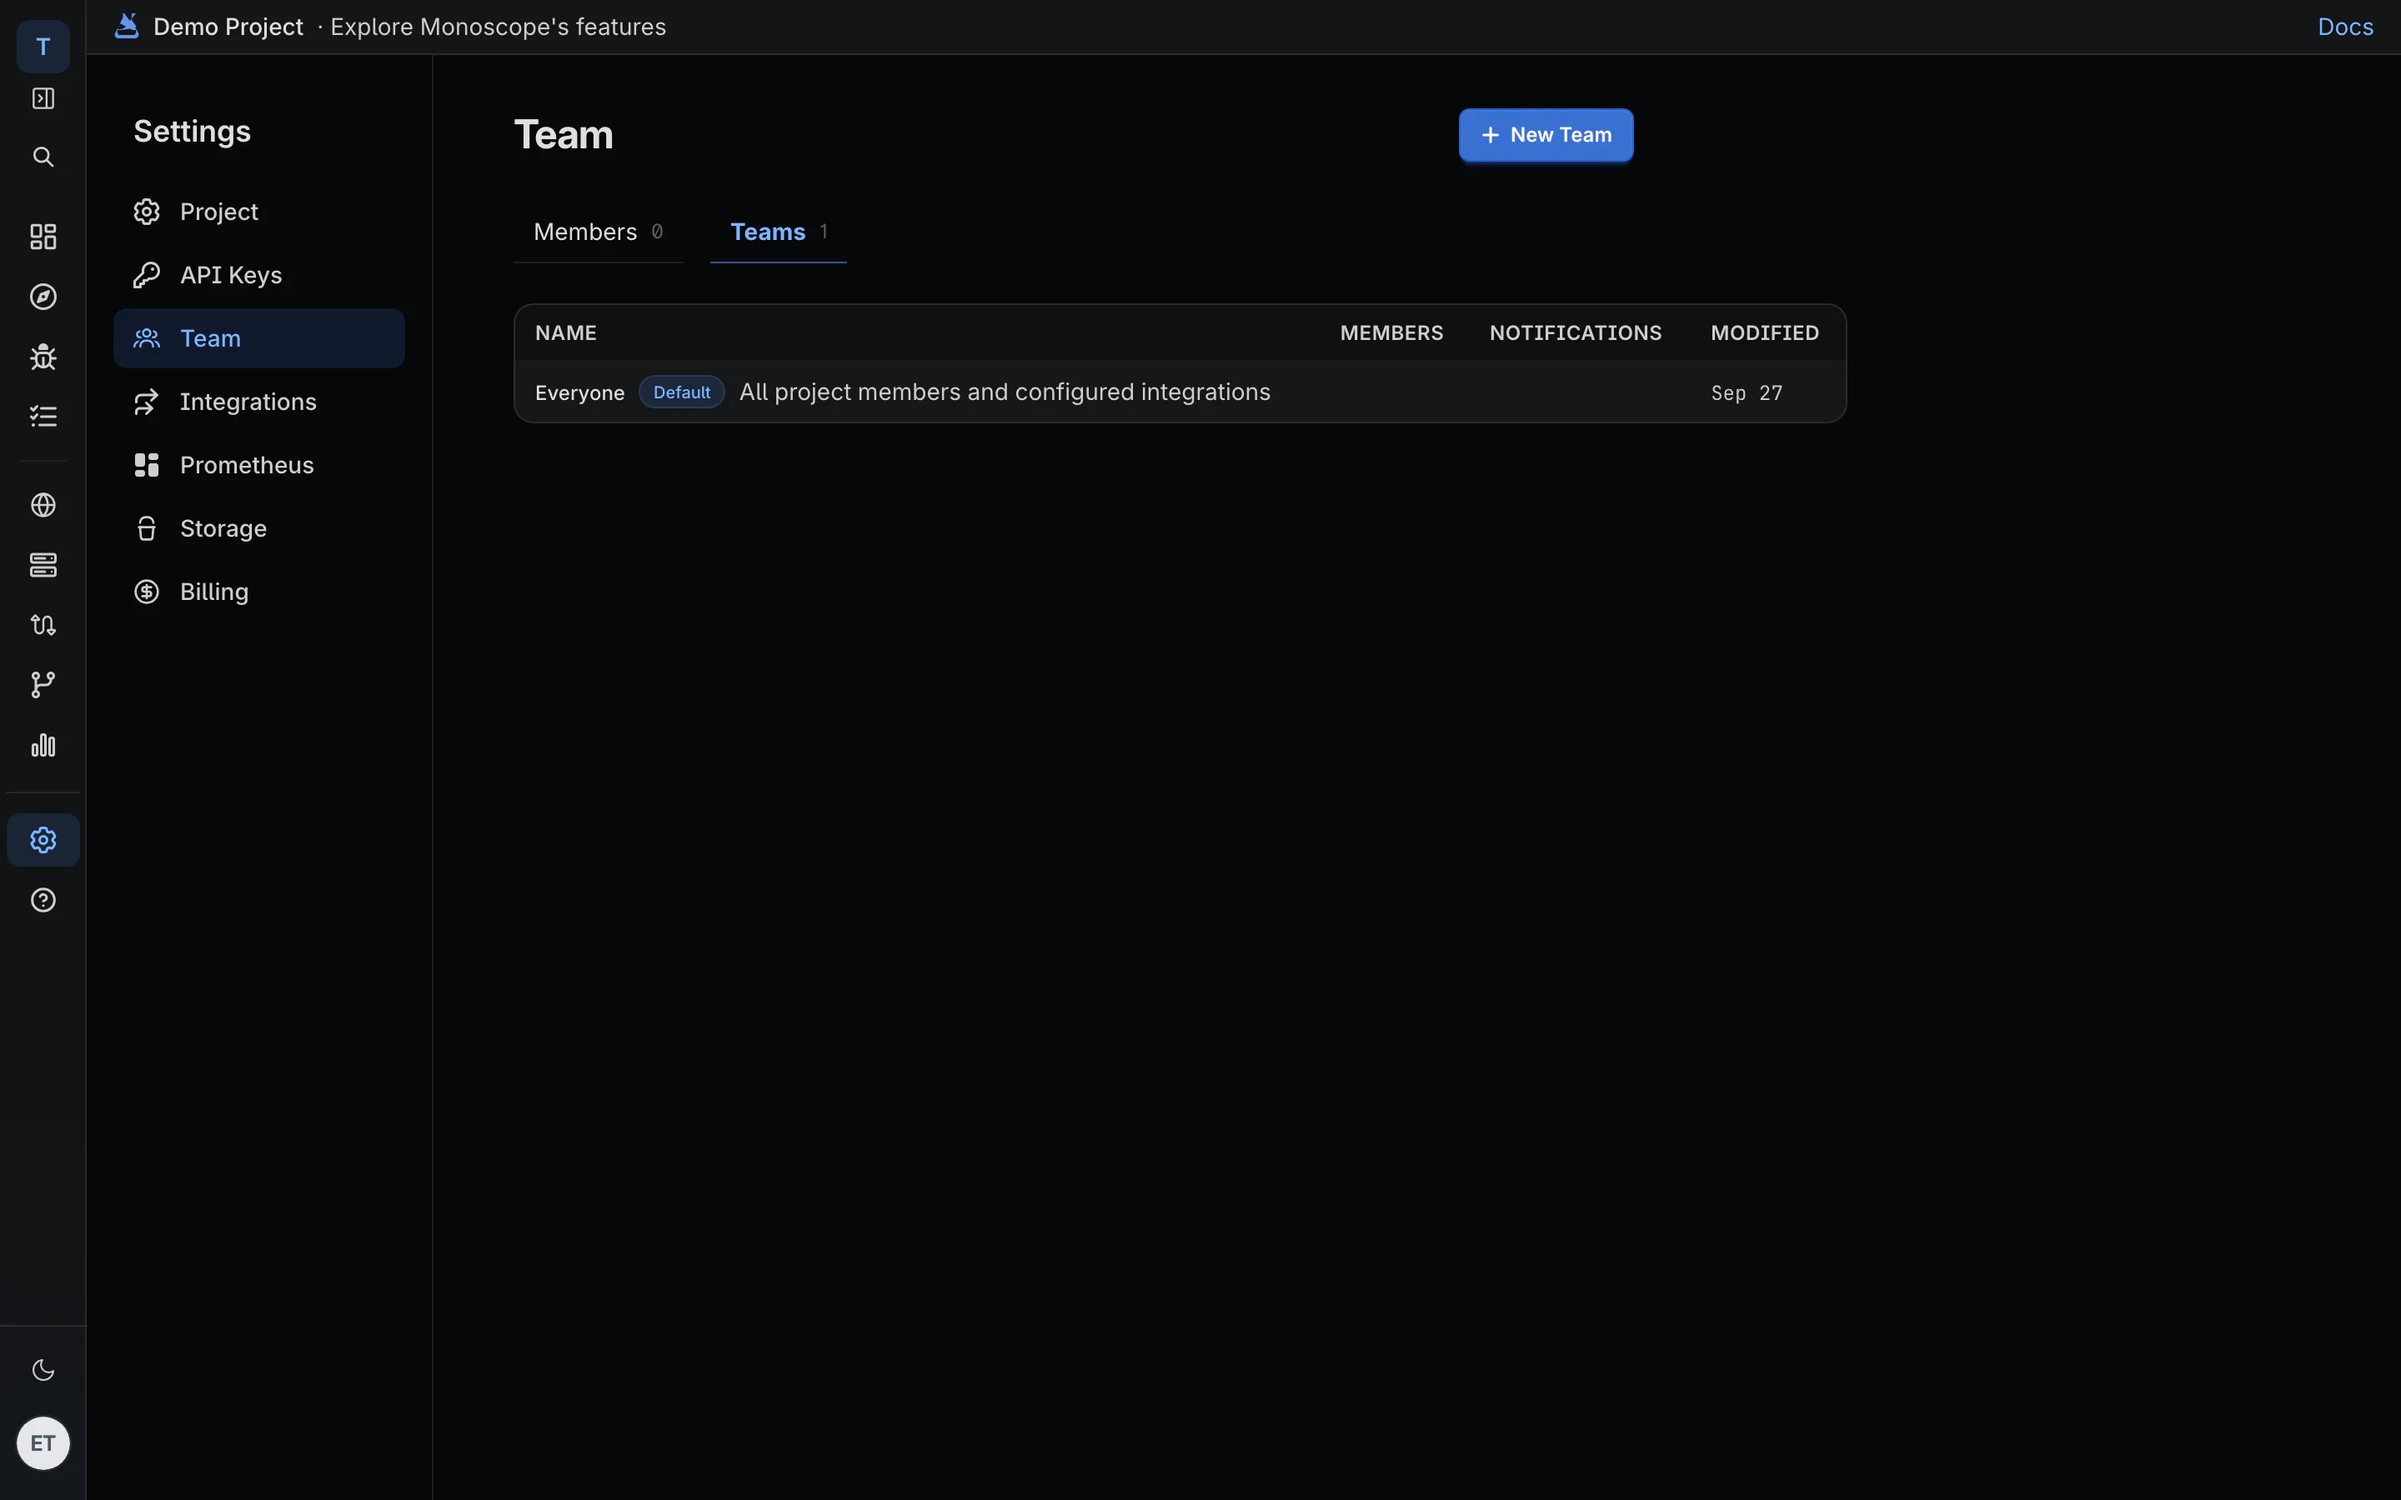
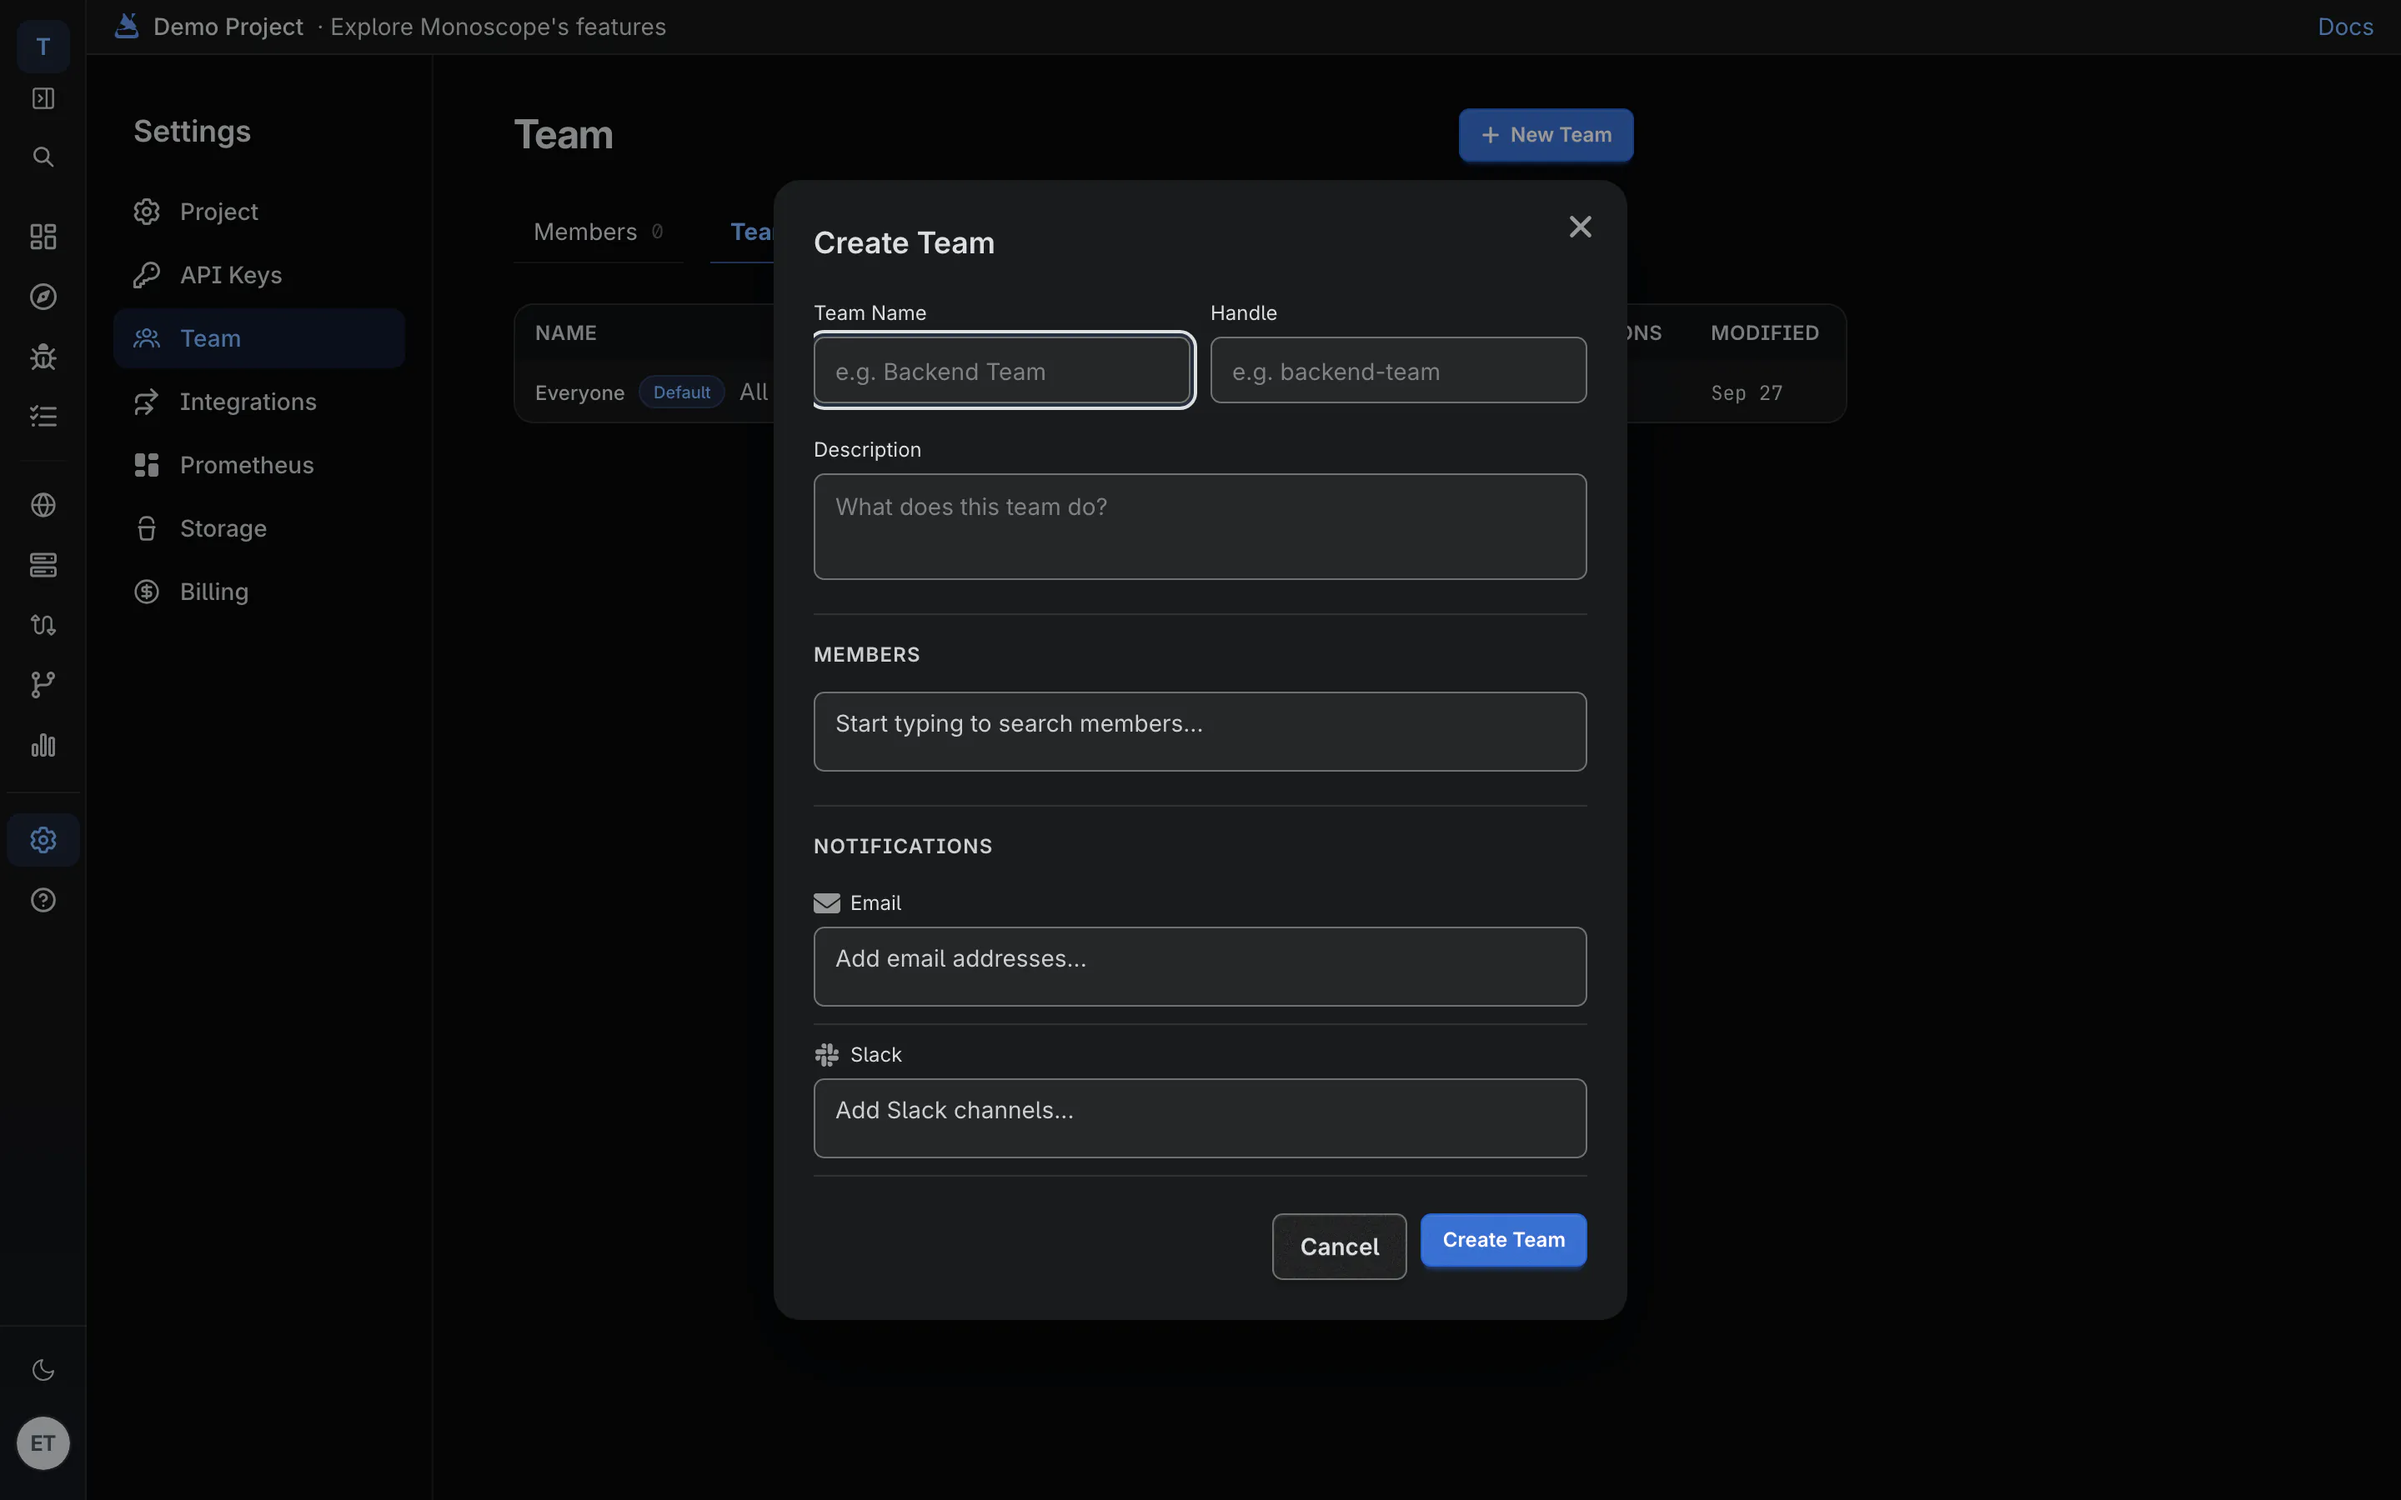
Product shots: session replay on a pinned session's landing hero; team settings with the Create Team dialog

diff --git a/assets/img/product/manifest.md b/assets/img/product/manifest.md
@@ -15,7 +15,7 @@ The script hides the demo-only "Book Demo" / "Start Free Trial" header buttons, 
 | issue-detail | `/issues/e76bd12d-0c56-4779-a348-79e758105791` | Issue #113557 "Shipping Quote Failure in Checkout Service": error frequency chart, AI analysis ("Likely cause: Network"), event highlights, contexts and trace ids | none | 2026-10-29 |
 | dashboard-overview | `/dashboards/6f5ee51d-…/tab/overview` | Overview dashboard: golden signals (traffic, P95 latency, error rate, Apdex), system overview, services health table, ongoing issues | none | 2026-10-29 |
 | dashboard-service | `/dashboards/6f5ee51d-…/tab/service?var-service=frontend-proxy` | Overview dashboard, Service tab for `frontend-proxy`: 17K requests, 0.02% error rate, avg latency, requests / P95 latency / errors by resource (3 errors), requests by status code, latency percentiles | service picked via URL variable (of frontend, checkout, ad, product-catalog and frontend-proxy, only frontend-proxy has a non-empty "Errors by Resource" panel) | 2026-10-29 (recaptured) |
-| session-replay | `/rum/sessions` (redirects to Explorer, Sessions view) | Session replay player over the sessions list: a shopper's cart page mid-playback (00:25 of 00:29). Product images show as broken-image alt text: the recorded page points at the demo shop's internal image host | replayed the longest session, let it finish, clicked "Replay from start" | 2026-10-29 |
+| session-replay | `/log_explorer?viz_type=sessions&query=<sessions query>&from=2026-10-30T11:00:00Z&to=2026-10-30T11:10:00Z&session_replay=ef29be47-ef21-48ce-9fa3-8ed687aed755` | Session replay player over the sessions list: session "Demo shopper b50add89" (20 s) mid-playback at 00:02 on the shop's landing hero ("The best telescopes to see the world closer"), no overlays. Every demo session records its images from the shop's internal host (`frontend-proxy:8080`), so no session renders product images; the hero is the cleanest moment (only the logo/cart icons and the hero background are missing) | session pinned by replay id and a fixed time window; the player autoplays, so the script rewinds to 0 and shoots 2 s later without a settle (pausing adds a play overlay). If the session ages out of retention, pick another `Demo shopper` session starting on `/` | 2026-10-30 (recaptured) |
 | ai-chat | `/ai/757db319-a5b3-431c-bd47-bedb08f33cf3` | AI conversation "Investigate Telemetry, Flagd, and Disk Pressure Alerts": a findings list, an inline bar chart of errors by service, and "8 tool calls" | scrolled the thread down 100px so the chart is in full view (the user's prompt scrolls out) | 2026-10-29 |
 | routines | `/ai/routines` | Routines: 3 installed daily routines (error spikes, faulty metrics, today's logs) with Pause / Send to Slack, plus recent successful runs | none | 2026-10-29 |
 | monitors | `/monitors` | Monitors list: 4 active monitors with KQL queries, schedules, last run and alert/warn thresholds, one alerting | none | 2026-10-29 |
@@ -26,7 +26,7 @@ The script hides the demo-only "Book Demo" / "Start Free Trial" header buttons, 
 | api-changes | `/issues/dd87a53a-b8bb-4236-9ae2-0360834e73d7` | Schema-change issue #113292 "API Change: Cart Endpoint Response Field Modified": `GET /api/cart`, field-changes table with before/after inferred formats and sample values (`user.id`: text, uuid → text), matching span activity chart | none (the list view is `/issues?type=api_change`) | 2026-10-29 |
 | settings-api-keys | `/apis` | Settings, API Keys: two active keys, masked by the app | none | 2026-10-29 |
 | settings-integrations | `/settings/integrations` | Settings, Integrations: Email, Slack, Discord, WhatsApp, PagerDuty notification channels | hid the demo's "Slack token rejected / Reconnect" warning block | 2026-10-29 |
-| settings-members | `/manage_teams` | Settings, Team, Teams tab: the default "Everyone" team | none. The demo has no invited members (the Members tab is an empty state), so this is the populated view | 2026-10-29 |
+| settings-members | `/manage_teams` | Settings, Team, Teams tab with the Create Team dialog open: team name and handle, description, members picker, and email and Slack notification routing. The default "Everyone" team shows behind it | clicked "New Team" (nothing submitted). The demo has no invited members (the Members tab is an empty state) and the Everyone team detail page lists E2E test dashboards, so the dialog is the richest team & access view | 2026-10-30 (recaptured) |
 | onboarding | `/onboarding?step=Integration` | Onboarding step 4 of 5 "Instrument your apps or servers": API key, language picker (Javascript selected, "waiting" for data) and the ExpressJS integration guide, including the coding-agent setup | clicked "Javascript"; the API key is masked to its first 8 characters | 2026-10-29 (recaptured) |
 | otel-setup | `/onboarding?step=Integration` | Same onboarding step, guide scrolled to "OpenTelemetry Configuration": `OTEL_EXPORTER_OTLP_ENDPOINT="http://otelcol.monoscope.tech:4317"`, `OTEL_RESOURCE_ATTRIBUTES="x-api-key=YOUR_API_KEY"`, service name and gRPC protocol, next to the masked project API key | clicked "Javascript" (tile shows "waiting" for data), scrolled the guide; API key masked | 2026-10-29 |
 
